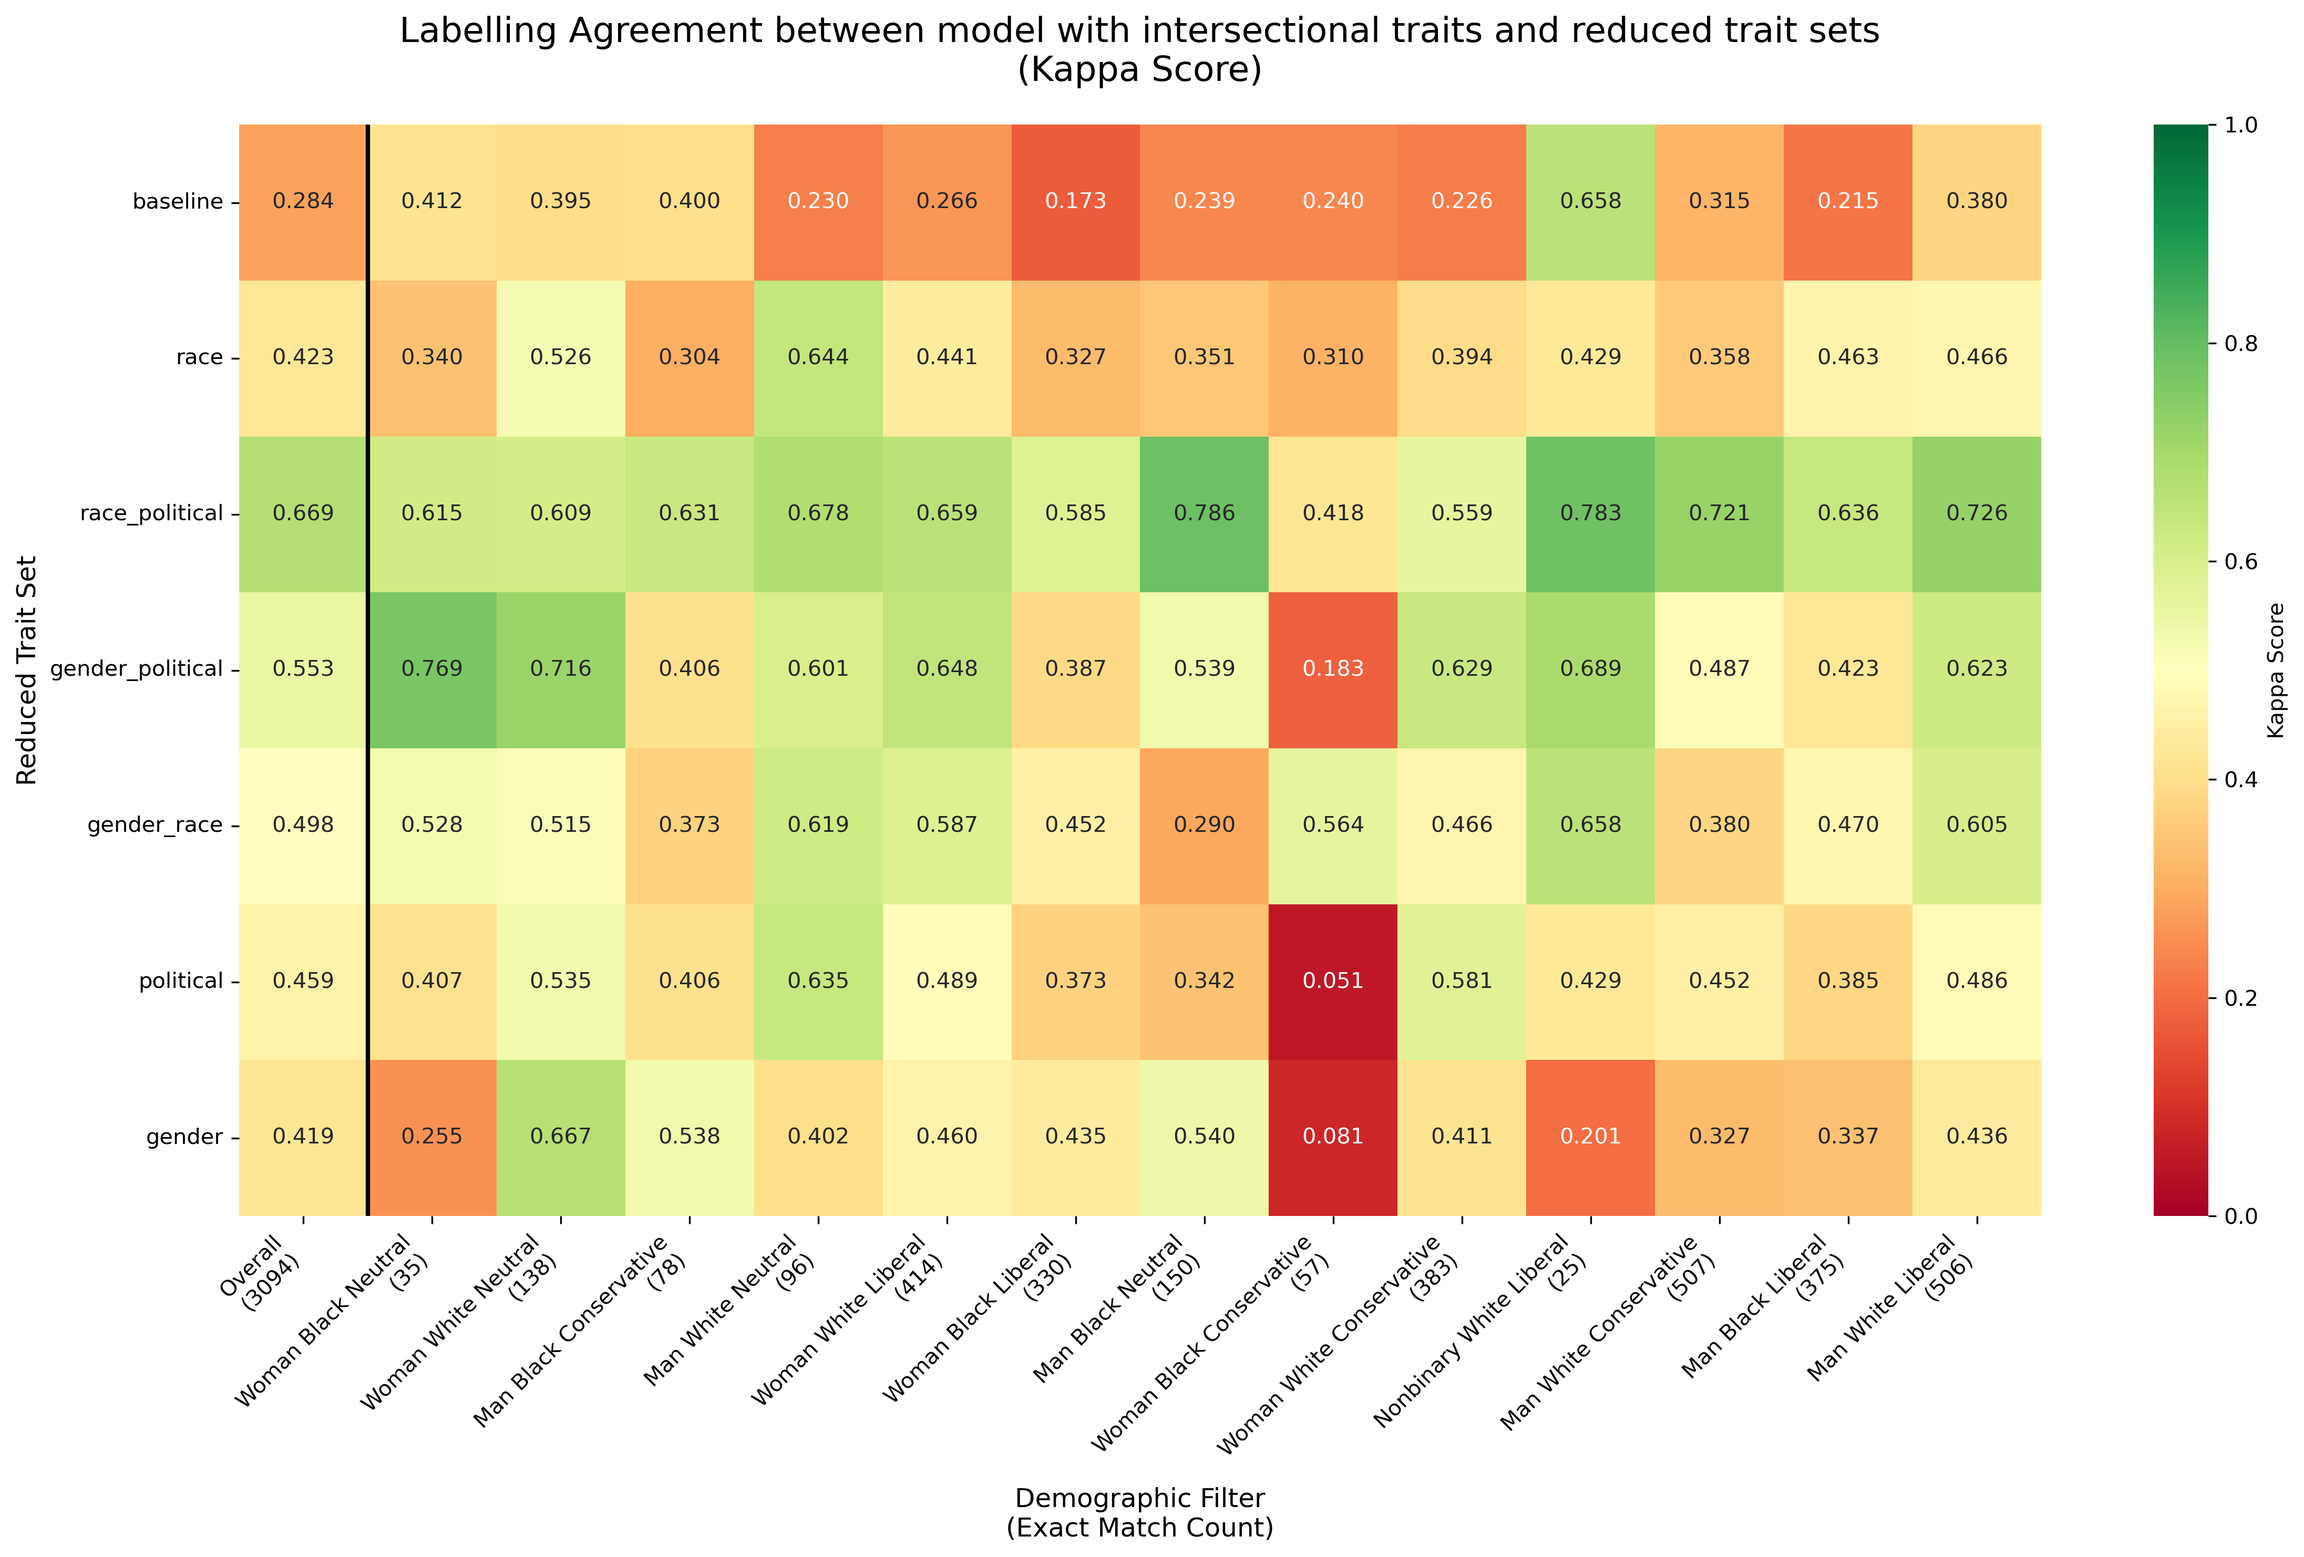
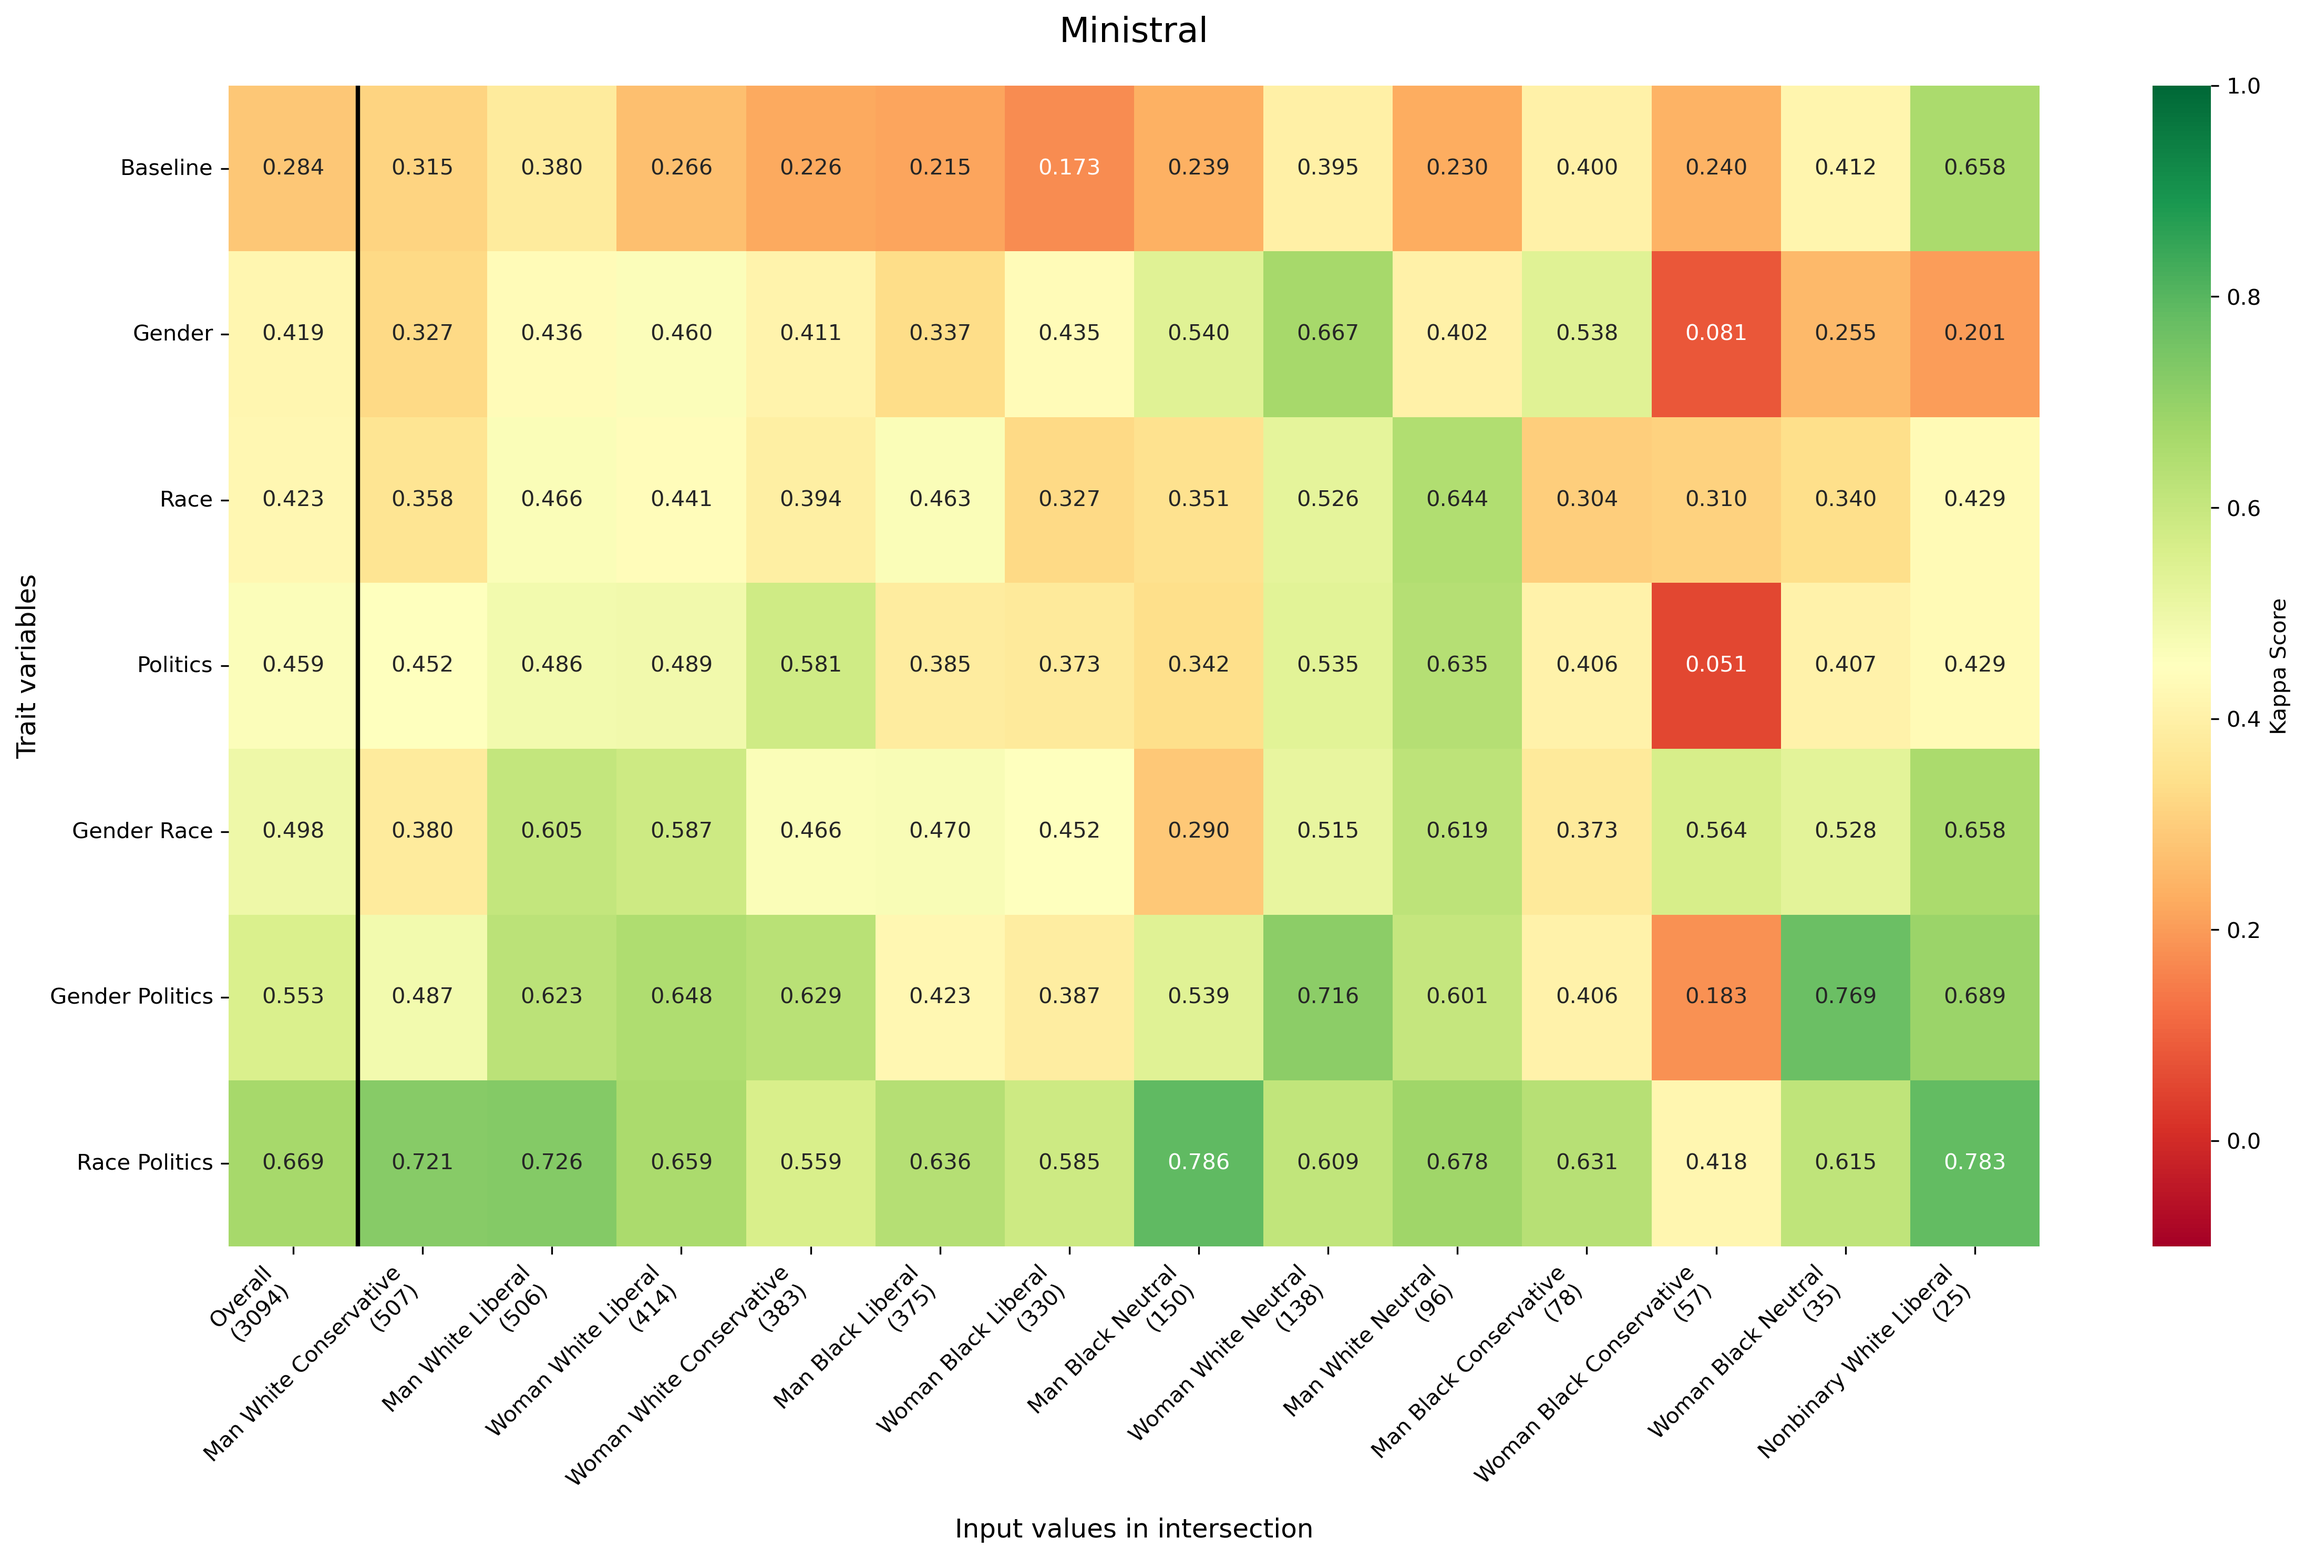
plot check

diff --git a/utils/label_distribution_analysis.py b/utils/label_distribution_analysis.py
@@ -186,16 +186,22 @@ def create_visualization_table(data, metric='kappa'):
     
     df = pd.DataFrame(rows)
     df = df.set_index('Trait Set')
+    # Change row names in df
+    df.index = [trait_set.replace('_', ' ').title() for trait_set in df.index]
+    df.index = [trait_set.replace('Political', 'Politics') for trait_set in df.index]
+    # Change the order of the rows to be Baseline, Race, Gender, Politics
+    desired_order = ['Baseline', 'Gender', 'Race', 'Politics', 'Gender Race', 'Gender Politics', 'Race Politics']
+    df = df.reindex(desired_order)
+
+    # Order df columns based on total counts
+    ordered_columns = sorted(df.columns, key=lambda x: total_counts.get(x, 0), reverse=True)
+    df = df[ordered_columns]
     
     return df, filter_mapping, total_counts
 
-def visualize_heatmap(data, vmin=0.0, vmax=1.0, save_path=None):
+def visualize_heatmap(data, vmin=-0.1, vmax=1.0, save_path=None, model_name=None):
     kappa_df, filter_mapping, exact_counts = create_visualization_table(data, 'kappa')
     
-    # Reorganize columns to put "Overall" first
-    if 'Overall' in kappa_df.columns:
-        cols = ['Overall'] + [col for col in kappa_df.columns if col != 'Overall']
-        kappa_df = kappa_df[cols]
     
     # Create a proper heatmap visualization
     plt.figure(figsize=(16, 10))  # Increased height to accommodate two-line labels
@@ -228,14 +234,13 @@ def visualize_heatmap(data, vmin=0.0, vmax=1.0, save_path=None):
         else:
             label = col
         x_labels.append(label)
-    
     # Set the custom labels
     ax.set_xticklabels(x_labels, rotation=45, ha='right')
     
-    plt.title('Labelling Agreement between model with intersectional traits and reduced trait sets\n(Kappa Score)',
-              fontsize=16, pad=20)
-    plt.xlabel('Demographic Filter\n(Exact Match Count)', fontsize=12)
-    plt.ylabel('Reduced Trait Set', fontsize=12)
+    plt.title(f'{model_name}', fontsize=16, pad=20)
+
+    plt.xlabel('Input values in intersection', fontsize=12)
+    plt.ylabel('Trait variables', fontsize=12)
     
     plt.yticks(rotation=0)
     plt.tight_layout()

diff --git a/stat_analysis_label_distribution.py b/stat_analysis_label_distribution.py
@@ -4,7 +4,6 @@ from collections import Counter
 from utils.label_distribution_analysis import read_all_model_datasets, filter_out_missing_rows, compute_intersectionality_cohen_kappa, visualize_heatmap
 
 def main():
-    
     model_names = ['Qwen2', 'deepseek', 'Llama', 'gemma', 'Ministral']
     cot_names = ['noCoT']
     socio_demographic_variables = ['gender', 'race', 'political']
@@ -19,7 +18,7 @@ def main():
             all_model_datasets = read_all_model_datasets(model_name, cot_name, results_base_path, results_socdem_base_path)
             all_model_datasets_filtered = filter_out_missing_rows(all_model_datasets)
             all_model_results_cohen = compute_intersectionality_cohen_kappa(all_model_datasets_filtered, socio_demographic_variables)
-            visualize_heatmap(all_model_results_cohen, save_path=output_plot_path)
+            visualize_heatmap(all_model_results_cohen, save_path=output_plot_path, model_name=model_name)
 
 
 
